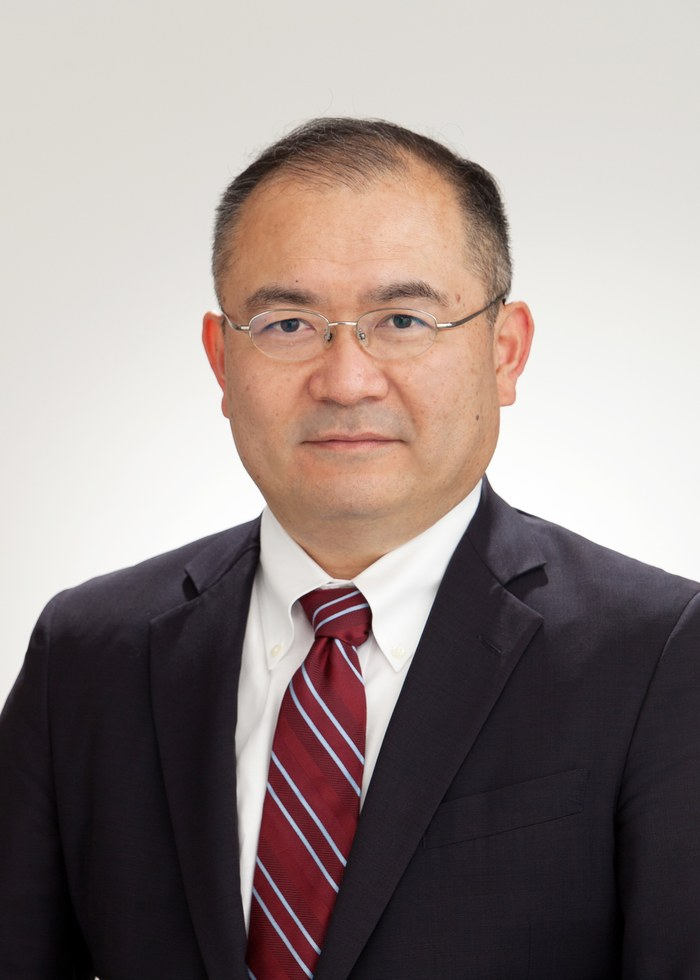
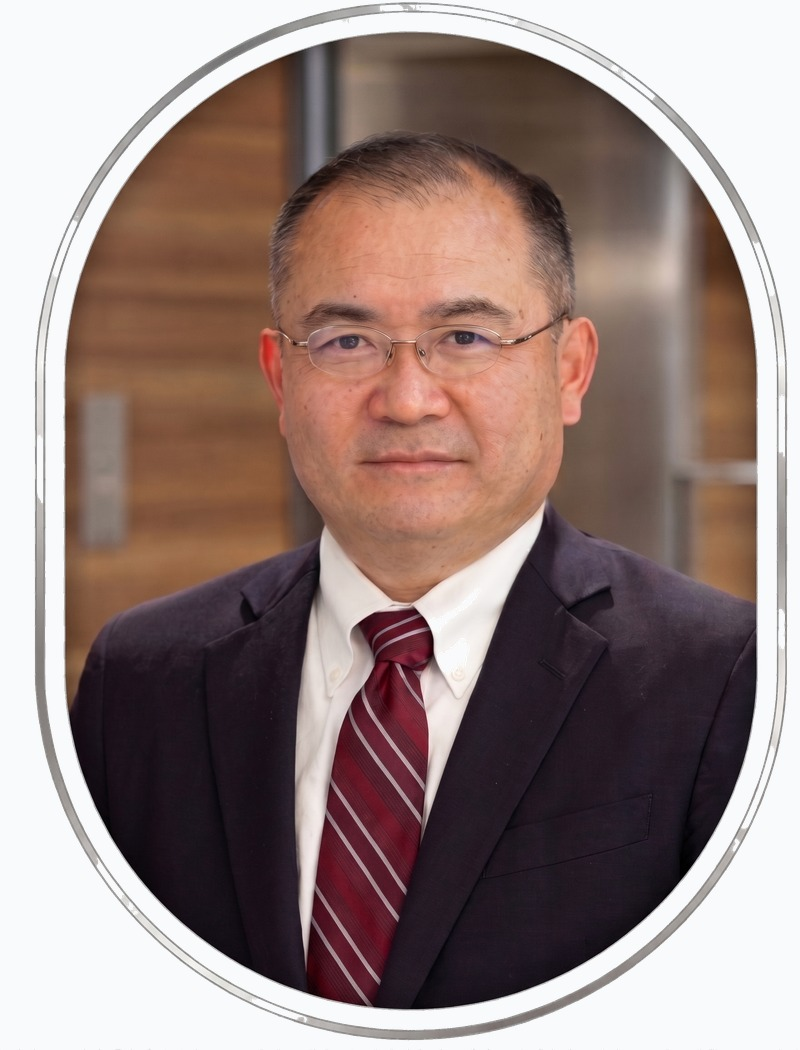
Add files via upload

diff --git a/internat.html b/internat.html
@@ -1,0 +1,113 @@
+<!DOCTYPE html>
+<html lang="ja">
+<head>
+<meta charset="UTF-8">
+<meta name="viewport" content="width=device-width, initial-scale=1.0">
+<title>研究連携｜齋藤研究室（人間空間デザインセンター）</title>
+<meta name="description" content="齋藤研究室の共同研究のご案内、産学官連携の進め方、社会への貢献。">
+<link rel="stylesheet" href="css/style.css">
+</head>
+<body>
+  <header class="site-header">
+    <div class="header-inner">
+      <a class="brand" href="index.html">
+        <img class="brand-mark" src="images/saito_logo.png" alt="齋藤研究室ロゴ">
+        <span>齋藤研究室<small> /早稲田大学</small></span>
+      </a>
+      <button class="nav-toggle" aria-label="メニュー">&#9776;</button>
+      <nav class="main-nav">
+        <a href="about.html">研究室について</a>
+        <a href="research.html">研究</a>
+        <a href="education.html">教育・学生</a>
+        <a href="collaboration.html" class="active">研究連携</a>
+        <a href="results.html">成果</a>
+        <a href="members.html">メンバー</a>
+        <a href="news.html">ニュース</a>
+      </nav>
+      <div class="header-actions">
+        <a class="btn btn-ghost" href="en.html">EN</a>
+        <a class="btn btn-outline" href="contact.html">お問い合わせ</a>
+        <a class="btn btn-primary" href="visit.html">見学・相談</a>
+      </div>
+    </div>
+  </header>
+
+
+  <div class="page-header">
+    <div class="container">
+      <div class="breadcrumb"><a href="index.html">トップ</a> / 研究連携</div>
+      <span class="eyebrow">Industry & Society</span>
+      <h1>研究連携</h1>
+      <p class="lead">共同研究のご相談や産学官連携の窓口です。学生向けページとは分けてご案内しています。</p>
+    </div>
+  </div>
+
+  <section>
+    <div class="container">
+      <div class="grid grid-2">
+        <div class="card">
+          <h3>共同研究のご案内（相談テーマ例）</h3>
+          <div class="todo-box"><b>要追記：</b>想定する相談テーマ例（例：建築の熱環境設計、ヒートポンプ・給湯機器の性能評価、AIによる空間制御など）。</div>
+        </div>
+        <div class="card">
+          <h3>産学官連携の進め方（窓口・手続き）</h3>
+          <div class="todo-box"><b>要追記：</b>問い合わせ窓口・手続きフロー。</div>
+        </div>
+      </div>
+    </div>
+  </section>
+
+  <section>
+    <div class="container">
+      <div class="section-head">
+        <span class="eyebrow">Impact</span>
+        <h2>社会への貢献</h2>
+      </div>
+      <p class="lead">水素エネルギーの活用やスマートヒートポンプなど、脱炭素社会の実現に直結する次世代システムの研究を通じて、快適性・健康性を犠牲にしない省エネ・脱炭素技術の社会実装に貢献しています。</p>
+    </div>
+  </section>
+
+  <section>
+    <div class="container">
+      <div class="cta-banner">
+        <h2>共同研究・技術相談のご相談</h2>
+        <p>企業・一般の方からのお問い合わせはこちらから承ります。</p>
+        <div class="cta-actions"><a class="btn btn-primary btn-lg" href="contact.html">お問い合わせフォームへ</a></div>
+      </div>
+    </div>
+  </section>
+
+  <footer class="site-footer">
+    <div class="container">
+      <div class="footer-grid">
+        <div>
+          <h4>早稲田大学　齋藤研究室</h4>
+          <p style="max-width:420px;">快適な暮らしと脱炭素社会を両立する、新しい人間空間をデザインする。建築・エネルギー・機械・情報制御・人間科学を「熱」でつなぐ、人間空間デザイン工学の拠点です。</p>
+        </div>
+        <div>
+          <h4>サイトマップ</h4>
+          <a href="about.html">研究室について</a>
+          <a href="research.html">研究</a>
+          <a href="education.html">教育・学生</a>
+          <a href="collaboration.html">研究連携</a>
+          <a href="results.html">成果</a>
+          <a href="members.html">メンバー</a>
+          <a href="news.html">ニュース</a>
+        </div>
+        <div>
+          <h4>お問い合わせ</h4>
+          <a href="visit.html">見学・相談（学生向け）</a>
+          <a href="contact.html">お問い合わせ（企業・一般）</a>
+          <a href="en.html">English</a>
+        </div>
+      </div>
+      <div class="footer-bottom">
+        <span>&copy; 2026 早稲田大学 齋藤研究室</span>
+        <span>〒169-8555 東京都新宿区大久保3-4-1　早稲田大学58号館　本室：210号室</span>
+      </div>
+    </div>
+  </footer>
+
+<script src="js/main.js"></script>
+</body>
+</html>

diff --git a/education.html b/education.html
@@ -175,27 +175,23 @@
         <h2>学生・卒業生より</h2>
       </div>
       <div class="grid grid-2">
-        <details class="card faq-item voice-item">
-          <summary>
-            <div class="voice-head">
-              <img class="voice-avatar" src="images/voice_yokoo_koharu.png" alt="横尾心温さん">
-              <div>
-                <span class="voice-role">M1</span>
-                <h3>横尾 心温さん</h3>
-              </div>
-            </div>
-            <p class="faq-preview">カーボンニュートラル社会に対して熱分野からどのようなアプローチが有効か、また自分や研究室の他の研究がいかに社会に貢献しているかを実感できることが、齋藤研究室の良さだと感じます。</p>
-          </summary>
-          <div class="faq-answer">
-            <ul>
+        <div class="voice-card">
+          <img class="voice-photo" src="images/voice_yokoo_koharu.jpg" alt="横尾心温さん">
+          <details class="voice-body">
+            <summary>
+              <span class="voice-role">M1</span>
+              <h3>横尾 心温さん</h3>
+              <p class="faq-preview">カーボンニュートラル社会に対して熱分野からどのようなアプローチが有効か、また自分や研究室の他の研究がいかに社会に貢献しているかを実感できることが、齋藤研究室の良さだと感じます。</p>
+            </summary>
+            <ul class="voice-text">
               <li>カーボンニュートラル社会に対して熱分野からどのようなアプローチが有効か、また自分や研究室の他の研究がいかに社会に貢献しているかを実感できることが、齋藤研究室の良さだと感じます。</li>
               <li>齋藤先生をトップに、研究員の方たちがどのように研究室で研究を行っているのかを間近で見て実感できるのも良い点です。</li>
               <li>エアコンなどの空調機器も研究対象で、人の快適さに関わりながら熱流体機械として最適な運用を目指すシステムであり、伸びしろが大きいのも大きな魅力です。</li>
               <li>自分が所属しているリキッドデシカント班では、自分の手で実験やシミュレーションを行うことができます。</li>
               <li>自分はまだ実験しか行っていませんが、実験設備の修理なども自分たちで行うことで、研究対象とするシステムへの理解を深めることができます。</li>
             </ul>
-          </div>
-        </details>
+          </details>
+        </div>
         <div class="card" style="display:flex;align-items:center;justify-content:center;text-align:center;">
           <div>
             <h3 style="color:var(--muted);margin-bottom:8px;">準備中</h3>

diff --git a/en/education.html b/en/education.html
@@ -175,27 +175,23 @@
         <h2>From Our Students and Alumni</h2>
       </div>
       <div class="grid grid-2">
-        <details class="card faq-item voice-item">
-          <summary>
-            <div class="voice-head">
-              <img class="voice-avatar" src="../images/voice_yokoo_koharu.png" alt="Koharu Yokoo">
-              <div>
-                <span class="voice-role">M1</span>
-                <h3>Koharu Yokoo</h3>
-              </div>
-            </div>
-            <p class="faq-preview">What I love about the Saito Laboratory is being able to see, first-hand, what approaches from the thermal field can effectively support a carbon-neutral society, and to feel how my own research and that of others in the lab contribute to society.</p>
-          </summary>
-          <div class="faq-answer">
-            <ul>
+        <div class="voice-card">
+          <img class="voice-photo" src="../images/voice_yokoo_koharu.jpg" alt="Koharu Yokoo">
+          <details class="voice-body">
+            <summary>
+              <span class="voice-role">M1</span>
+              <h3>Koharu Yokoo</h3>
+              <p class="faq-preview">What I love about the Saito Laboratory is being able to see, first-hand, what approaches from the thermal field can effectively support a carbon-neutral society, and to feel how my own research and that of others in the lab contribute to society.</p>
+            </summary>
+            <ul class="voice-text">
               <li>What I love about the Saito Laboratory is being able to see, first-hand, what approaches from the thermal field can effectively support a carbon-neutral society, and to feel how my own research and that of others in the lab contribute to society.</li>
               <li>It's also great to be able to watch up close, with Professor Saito at the top, how the researchers actually carry out their work in the lab.</li>
               <li>Air-conditioning equipment is itself a subject of our research — as a thermal-fluid machine that must be optimized for human comfort, it's a field with enormous room for further advancement, which is a big part of its appeal.</li>
               <li>In the liquid desiccant team that I belong to, I get to run experiments and simulations with my own hands.</li>
               <li>I have only run experiments so far, but by repairing the experimental equipment ourselves, we deepen our understanding of the very systems we are studying.</li>
             </ul>
-          </div>
-        </details>
+          </details>
+        </div>
         <div class="card" style="display:flex;align-items:center;justify-content:center;text-align:center;">
           <div>
             <h3 style="color:var(--muted);margin-bottom:8px;">Coming Soon</h3>

diff --git a/css/style.css b/css/style.css
@@ -263,6 +263,38 @@ table.roles-table tr td:first-child{white-space:nowrap;width:1%;}
 }
 .voice-role{display:block;font-size:12px;font-weight:700;color:var(--teal-deep);margin-bottom:2px;}
 .voice-item summary h3{margin:0;}
+.voice-card{
+  display:flex;gap:24px;align-items:flex-start;
+  background:var(--card);border:1px solid var(--border);border-radius:var(--radius);
+  padding:24px;box-shadow:var(--shadow);
+}
+.voice-photo{
+  width:160px;aspect-ratio:3/4;object-fit:cover;border-radius:14px;flex:none;
+  border:1px solid var(--border);box-shadow:var(--shadow);display:block;
+}
+.voice-card h3{margin:0 0 10px;}
+.voice-text{margin:0;padding-left:20px;}
+.voice-text li{margin-bottom:8px;font-size:14.5px;color:var(--ink);line-height:1.7;}
+.voice-text li:last-child{margin-bottom:0;}
+.voice-body{min-width:0;}
+.voice-body summary{
+  list-style:none;cursor:pointer;position:relative;padding-right:44px;
+}
+.voice-body summary::-webkit-details-marker{display:none;}
+.voice-body summary h3{margin:0 0 8px;}
+.voice-body summary .faq-preview{margin:0;color:var(--muted);font-size:14.5px;}
+.voice-body summary::after{
+  content:"+";position:absolute;top:0;right:0;width:28px;height:28px;border-radius:50%;
+  display:flex;align-items:center;justify-content:center;font-size:18px;font-weight:700;
+  color:var(--teal-deep);background:rgba(0,194,203,0.12);
+}
+.voice-body[open] summary::after{content:"\2212";}
+.voice-body[open] summary .faq-preview{display:none;}
+.voice-body[open] summary{margin-bottom:10px;}
+@media (max-width:760px){
+  .voice-card{flex-direction:column;}
+  .voice-photo{width:100%;max-width:220px;margin:0 auto;}
+}
 
 /* ---- CTA banner ---- */
 .cta-banner{
@@ -278,7 +310,7 @@ table.roles-table tr td:first-child{white-space:nowrap;width:1%;}
 .person-card{display:flex;gap:28px;align-items:flex-start;background:var(--card);border:1px solid var(--border);border-radius:var(--radius);padding:22px;box-shadow:var(--shadow);}
 .avatar{width:64px;height:64px;border-radius:50%;background:var(--bg-soft);flex:none;display:flex;align-items:center;justify-content:center;color:var(--muted);font-size:22px;font-weight:800;border:1px solid var(--border);}
 .avatar-photo{width:96px;height:96px;border-radius:50%;object-fit:cover;flex:none;border:1px solid var(--border);box-shadow:var(--shadow);background:var(--bg-soft);display:block;}
-.person-photo{width:196px;border-radius:14px;object-fit:cover;flex:none;border:1px solid var(--border);box-shadow:var(--shadow);display:block;}
+.person-photo{width:196px;object-fit:contain;flex:none;display:block;background:none;}
 @media (max-width:760px){
   .person-card{flex-direction:column;}
   .person-photo{width:100%;max-width:224px;margin:0 auto;}

diff --git a/en/members.html b/en/members.html
@@ -47,7 +47,7 @@
     <div class="container">
       <div class="section-head"><h2>Faculty</h2></div>
       <div class="person-card">
-        <img class="person-photo" src="../images/saito_kiyoshi_professor.jpg" alt="Professor Kiyoshi Saito">
+        <img class="person-photo" src="../images/saito_kiyoshi_professor.png" alt="Professor Kiyoshi Saito">
         <div>
           <h3 style="margin-bottom:4px;">Professor Kiyoshi Saito</h3>
           <p style="color:var(--muted);margin-bottom:16px;">Director, Waseda Research Institute for Sustainable Environmental and Energy Society</p>

diff --git a/members.html b/members.html
@@ -47,7 +47,7 @@
     <div class="container">
       <div class="section-head"><h2>教員</h2></div>
       <div class="person-card">
-        <img class="person-photo" src="images/saito_kiyoshi_professor.jpg" alt="齋藤潔教授">
+        <img class="person-photo" src="images/saito_kiyoshi_professor.png" alt="齋藤潔教授">
         <div>
           <h3 style="margin-bottom:4px;">教授　齋藤　潔</h3>
           <p style="color:var(--muted);margin-bottom:16px;">早稲田大学 持続的環境エネルギー社会共創研究機構 機構長</p>

diff --git a/about.html b/about.html
@@ -158,7 +158,7 @@
     </div>
   </section>
 
-  <section>
+  <section id="access">
     <div class="container">
       <div class="section-head">
         <span class="eyebrow">Access</span>

diff --git a/en/about.html b/en/about.html
@@ -158,7 +158,7 @@
     </div>
   </section>
 
-  <section>
+  <section id="access">
     <div class="container">
       <div class="section-head">
         <span class="eyebrow">Access</span>
